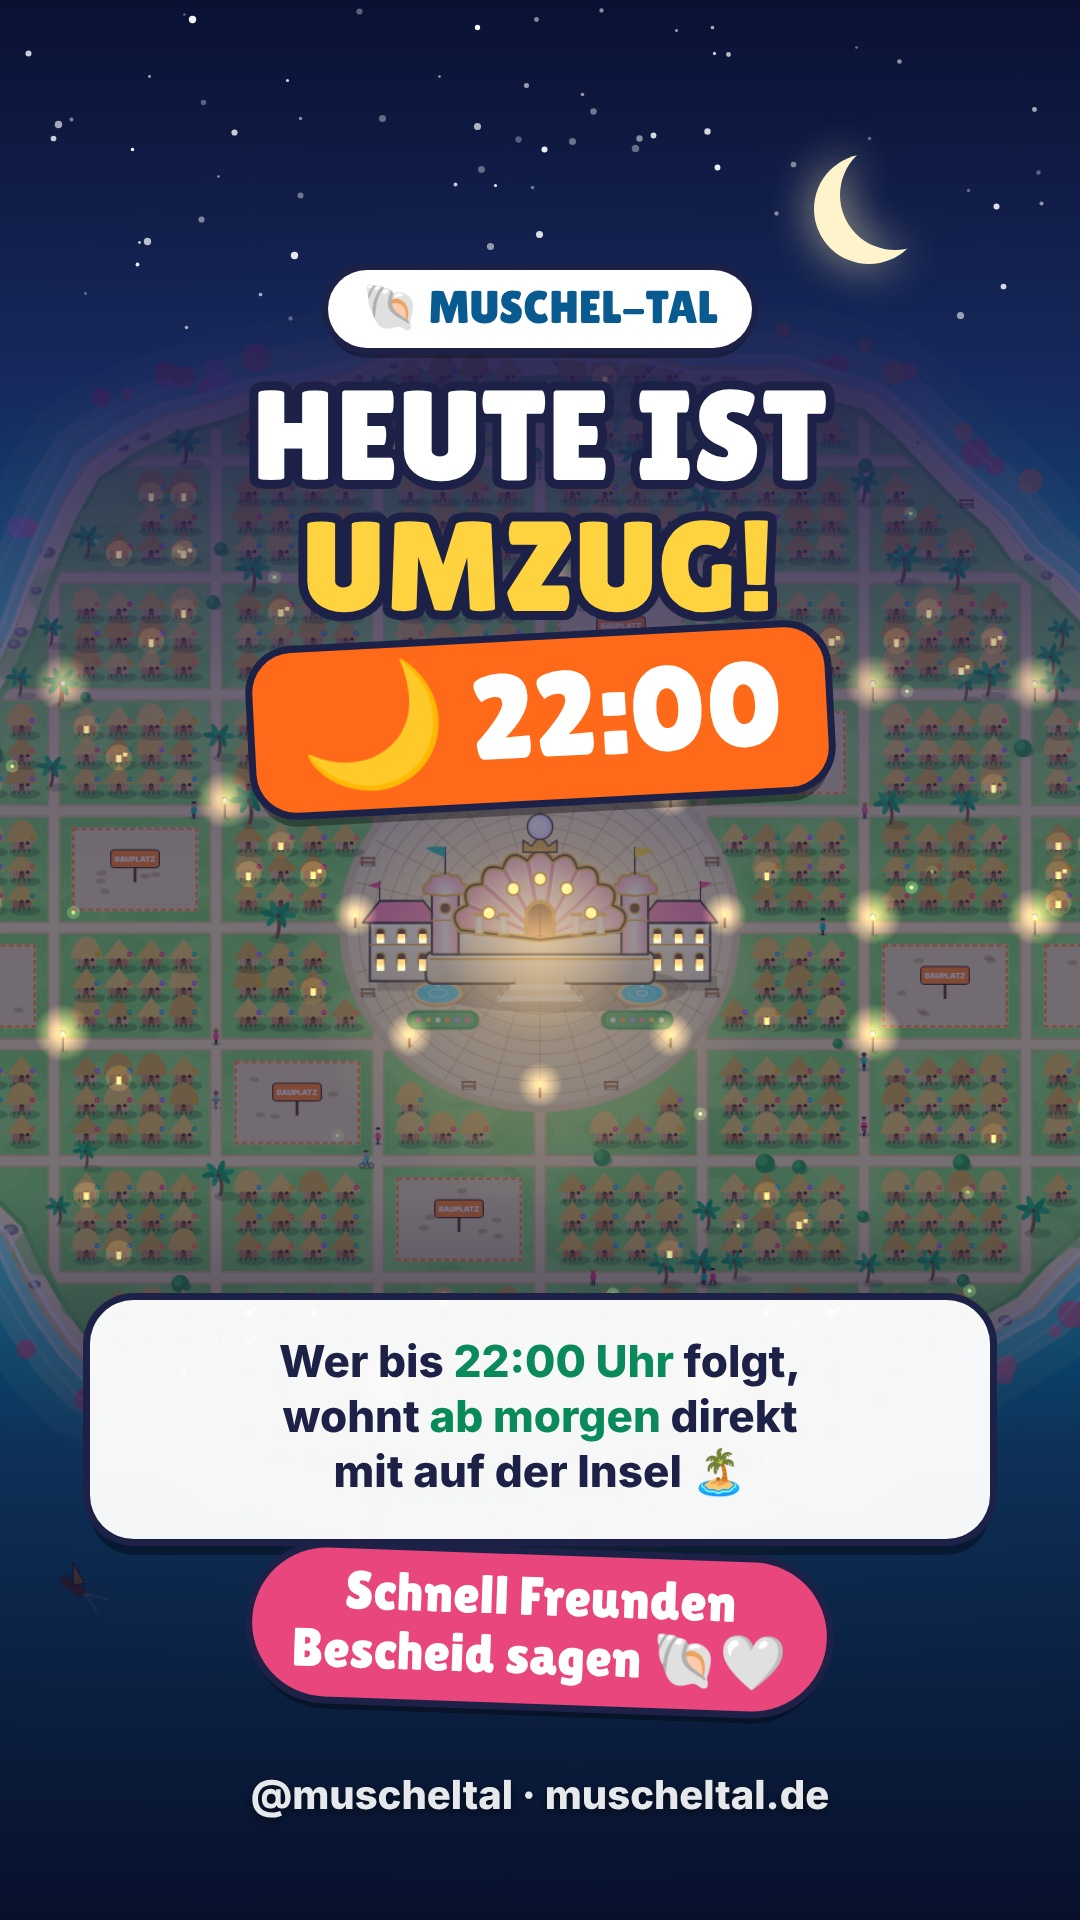
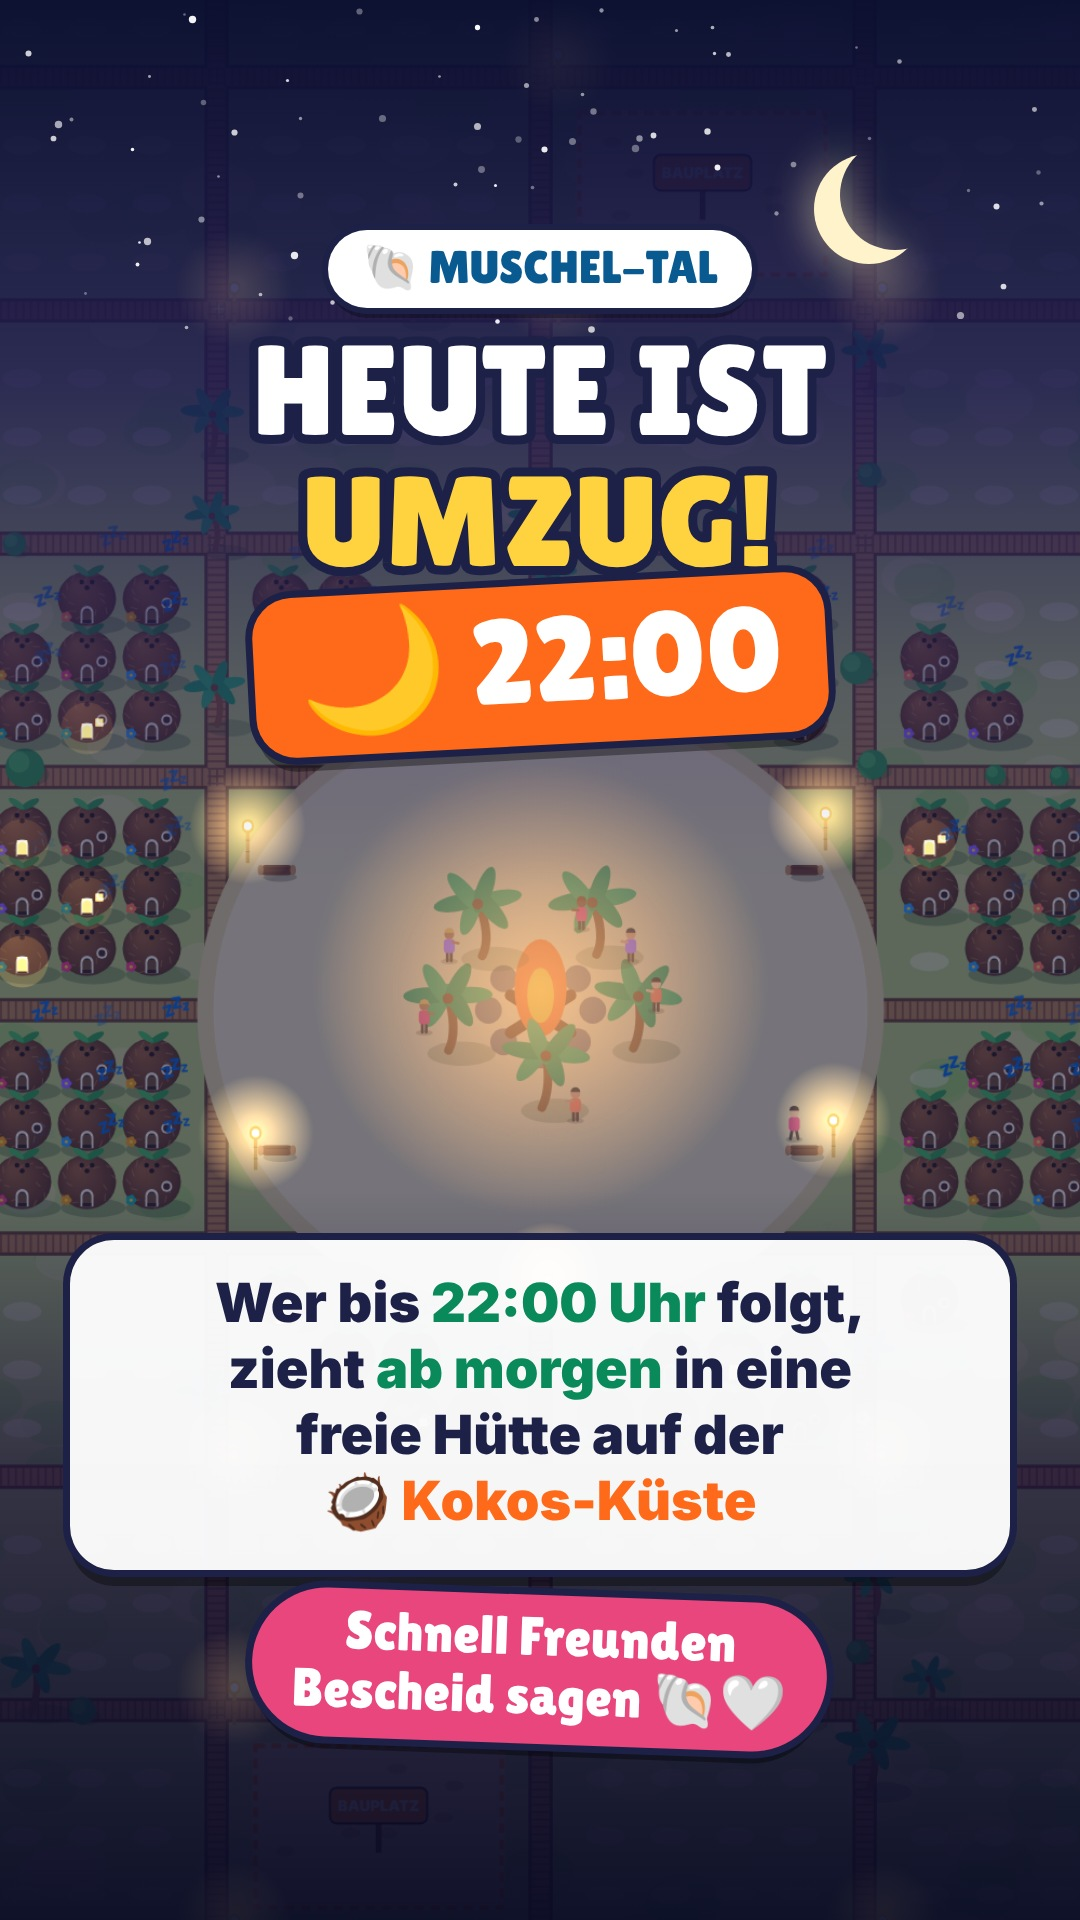
Story-Bild Umzug: Kokos-Küste, Text größer, Homepage-Zeile entfernt
Claude-Session: https://claude.ai/code/session_01McNdgWwqfWZ56Gqk3h71JF

diff --git a/videos/muscheltal-story-6/story.html b/videos/muscheltal-story-6/story.html
@@ -2,20 +2,20 @@
 @font-face{font-family:L;src:url(LilitaOne-Regular.woff2)}
 *{margin:0;box-sizing:border-box}
 body{width:1080px;height:1920px;overflow:hidden;background:#071a33;font-family:Inter,system-ui,sans-serif}
-.bg{position:absolute;inset:0;background:url(bg_nacht.png) center/cover;transform:scale(1.08);filter:saturate(1.15)}
+.bg{position:absolute;inset:0;background:url(bg_kokos.png) center/cover;transform:scale(1.08);filter:saturate(1.15)}
 .sky{position:absolute;inset:0;background:linear-gradient(180deg,rgba(10,14,48,.96) 0%,rgba(28,24,80,.75) 20%,rgba(60,40,110,.18) 36%,rgba(0,0,0,0) 46%,rgba(0,0,0,0) 62%,rgba(20,10,50,.55) 76%,rgba(8,10,36,.92) 100%)}
 .glow{position:absolute;left:290px;top:730px;width:500px;height:500px;border-radius:50%;background:radial-gradient(rgba(255,214,140,.38),rgba(255,214,140,0) 65%)}
 .stars i{position:absolute;width:5px;height:5px;border-radius:50%;background:#fff;opacity:.8}
 .moon{position:absolute;right:130px;top:140px;width:110px;height:110px;border-radius:50%;box-shadow:-26px 14px 0 0 #fff3cc;filter:drop-shadow(0 0 22px rgba(255,236,180,.7))}
 .c{position:absolute;left:0;right:0;text-align:center}
-.tag{top:270px;margin:0 auto;width:fit-content;padding:10px 34px 14px;border-radius:999px;background:#fff;color:#0a5a92;font:400 46px L;box-shadow:0 0 0 6px #1d2147,0 10px 0 rgba(0,0,0,.3)}
-.h{top:370px;font:400 128px/1.02 L;color:#fff;-webkit-text-stroke:18px #1d2147;paint-order:stroke fill;letter-spacing:.01em}
+.tag{top:230px;margin:0 auto;width:fit-content;padding:10px 34px 14px;border-radius:999px;background:#fff;color:#0a5a92;font:400 46px L;box-shadow:0 0 0 6px #1d2147,0 10px 0 rgba(0,0,0,.3)}
+.h{top:325px;font:400 128px/1.02 L;color:#fff;-webkit-text-stroke:18px #1d2147;paint-order:stroke fill;letter-spacing:.01em}
 .h b{color:#ffd23f;font-weight:400}
-.clock{position:absolute;left:0;right:0;margin:0 auto;top:640px;width:fit-content;padding:6px 44px 14px;border-radius:40px;background:#ff6a1a;color:#fff;font:400 120px L;box-shadow:0 0 0 7px #1d2147,0 14px 0 rgba(0,0,0,.35);transform:rotate(-3deg)}
-.card{position:absolute;left:90px;right:90px;top:1300px;padding:34px 40px 40px;border-radius:44px;background:rgba(255,255,255,.96);box-shadow:0 0 0 7px #1d2147,0 16px 0 rgba(0,0,0,.35);text-align:center;color:#1d2147}
-.card p{font:800 44px/1.25 Inter,system-ui,sans-serif}
+.clock{position:absolute;left:0;right:0;margin:0 auto;top:585px;width:fit-content;padding:6px 44px 14px;border-radius:40px;background:#ff6a1a;color:#fff;font:400 120px L;box-shadow:0 0 0 7px #1d2147,0 14px 0 rgba(0,0,0,.35);transform:rotate(-3deg)}
+.card{position:absolute;left:70px;right:70px;top:1240px;padding:30px 36px 36px;border-radius:44px;background:rgba(255,255,255,.96);box-shadow:0 0 0 7px #1d2147,0 16px 0 rgba(0,0,0,.35);text-align:center;color:#1d2147}
+.card p{font:900 54px/1.22 Inter,system-ui,sans-serif}
 .card p em{font-style:normal;color:#0a8a5b}
-.cta{position:absolute;left:0;right:0;margin:0 auto;top:1555px;width:fit-content;padding:12px 40px 18px;border-radius:999px;background:#e8467c;color:#fff;font:400 54px/1.1 L;text-align:center;box-shadow:0 0 0 7px #1d2147,0 12px 0 rgba(0,0,0,.35);transform:rotate(2deg)}
+.cta{position:absolute;left:0;right:0;margin:0 auto;top:1595px;width:fit-content;padding:12px 40px 18px;border-radius:999px;background:#e8467c;color:#fff;font:400 54px/1.1 L;text-align:center;box-shadow:0 0 0 7px #1d2147,0 12px 0 rgba(0,0,0,.35);transform:rotate(2deg)}
 .at{top:1770px;font:800 40px Inter,system-ui,sans-serif;color:#fff;opacity:.9;text-shadow:0 3px 10px rgba(0,0,0,.6)}
 .pin{position:absolute;left:0;right:0;margin:0 auto;top:880px;width:fit-content;padding:8px 26px 12px;border-radius:999px;background:rgba(29,33,71,.85);color:#ffe2a0;font:800 34px Inter,system-ui,sans-serif;border:3px solid #ffd23f}
 </style></head><body>
@@ -24,8 +24,7 @@ body{width:1080px;height:1920px;overflow:hidden;background:#071a33;font-family:I
 <div class="c tag">🐚 MUSCHEL-TAL</div>
 <div class="c h">HEUTE IST<br><b>UMZUG!</b></div>
 <div class="clock">🌙 22:00</div>
-<div class="card"><p>Wer bis <em>22:00 Uhr</em> folgt,<br>wohnt <em>ab morgen</em> direkt<br>mit auf der Insel 🏝</p></div>
+<div class="card"><p>Wer bis <em>22:00 Uhr</em> folgt,<br>zieht <em>ab morgen</em> in eine<br>freie Hütte auf der<br><span style="color:#ff6a1a">🥥 Kokos-Küste</span></p></div>
 <div class="cta">Schnell Freunden<br>Bescheid sagen 🐚🤍</div>
-<div class="c at">@muscheltal · muscheltal.de</div>
 <script>let s=7,h='';const r=()=>{s=(s*9301+49297)%233280;return s/233280};for(let i=0;i<70;i++)h+=`<i style="left:${r()*1080}px;top:${r()*330}px;opacity:${.3+r()*.7};transform:scale(${.5+r()})"></i>`;document.getElementById('st').innerHTML=h;</script>
 </body></html>

diff --git a/MUSCHELTAL_FAKTEN.md b/MUSCHELTAL_FAKTEN.md
@@ -77,7 +77,7 @@ Vor jeder Arbeit: `git pull origin claude/sweet-hamilton-2bxep9` (Videos und Hom
 - Frage an die Zuschauer: Was fehlt dir noch in Muschel-Tal? Kommentieren + jemanden markieren, der dein Nachbar sein soll.
 
 ## Story-Bild „Umzug um 22:00“ (8.11., `videos/muscheltal-story-6/muscheltal-story-umzug.jpg`)
-- Aussage: **Heute um 22:00 ist Umzug** – wer bis 22:00 Uhr folgt, wohnt **ab morgen** mit auf der Insel. Homepage muss die neuen Follower also bis morgen (9.11.) zeigen.
+- Aussage: **Heute um 22:00 ist Umzug** – wer bis 22:00 Uhr folgt, zieht **ab morgen in eine freie Hütte auf der Kokos-Küste** (Hintergrund: Kokos-Küste nachts, Lagerfeuer-Platz). Homepage muss die neuen Follower also bis morgen (9.11.) zeigen.
 
 ## Gepostete Videos (Hauptaccount)
 - **Video 1 (gepostet): „Ich habe euch eine Insel gekauft“** – `videos/muscheltal-tag-1/variante-insel-gekauft/video.mp4` (Stand Commit 69ffe74).
